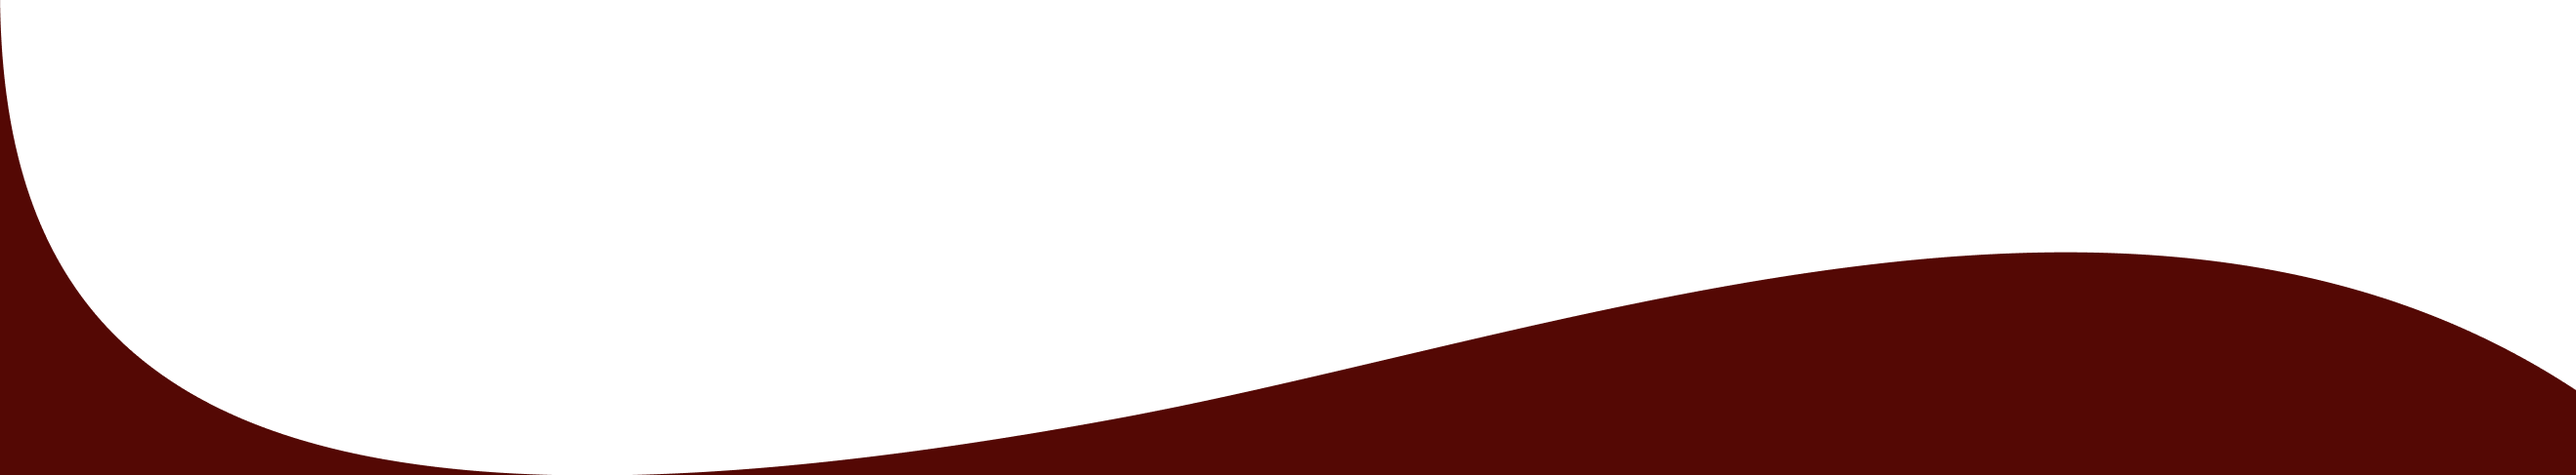
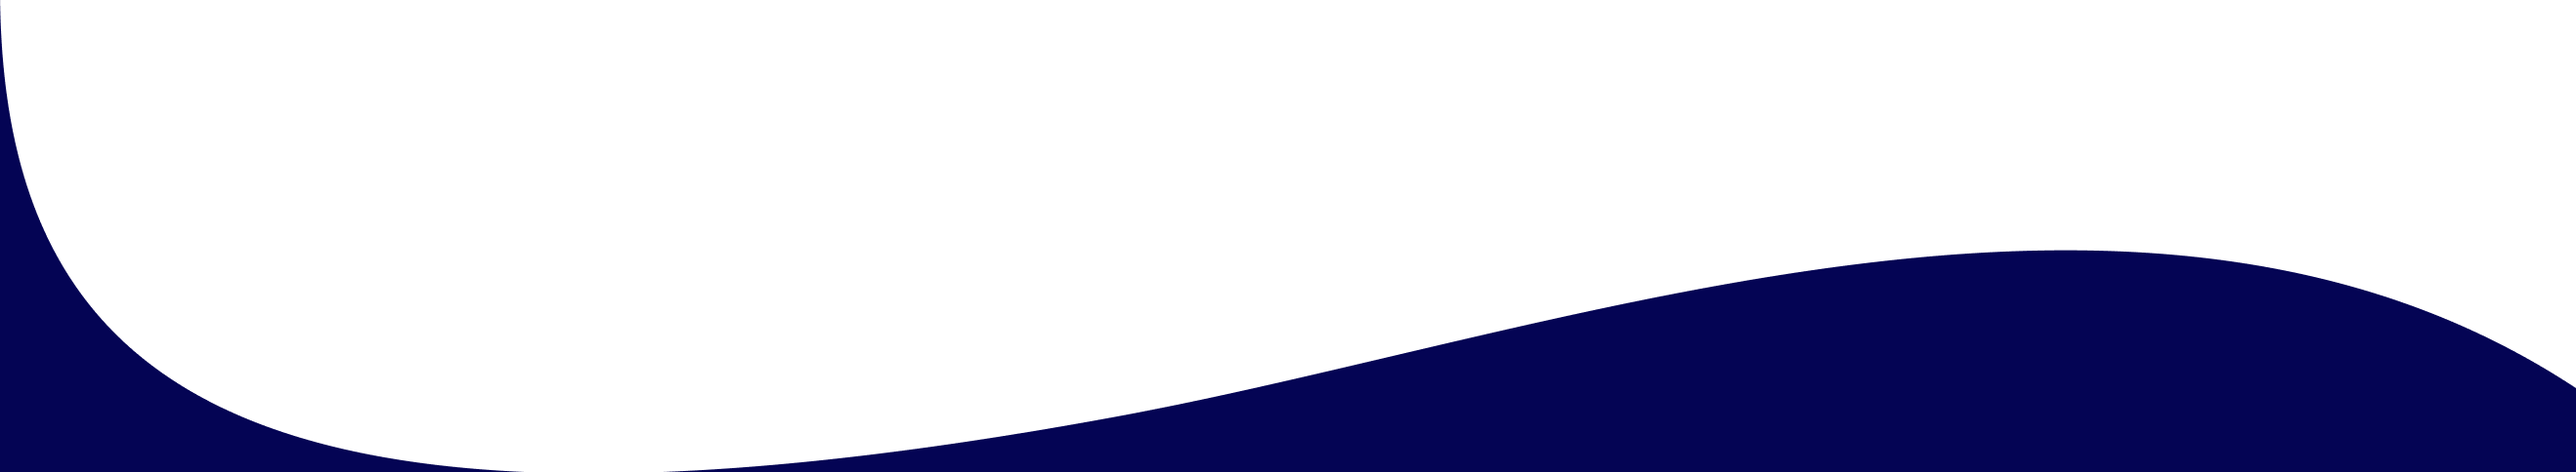
alterando as cores e começando o container3

Changed region(s): [[0.2489, 0.5269, 1.0, 1.0], [0.0, 0.2169, 0.2178, 1.0]]

diff --git a/Site-Institucional/public/style.css b/Site-Institucional/public/style.css
@@ -2,11 +2,12 @@
 body {
     margin: 0;
     padding: 0;
+    scroll-behavior: smooth;
 }
 .main{
-    background-color: #F5CCB0;
+    background-color: white;
     width: 100%;
-    height: 200vh;
+    height: auto;
     display: flex;
     justify-content: center;
 }
@@ -16,6 +17,7 @@ body {
     display: flex;
     flex-direction: column;
     align-items: center;
+    background-color: white;
 }
 .header{
     width: 100%;
@@ -30,26 +32,39 @@ body {
     align-items: center;
 }
 .logo{
-    height: 100%;
-    margin-top: 5%;
+    height: 50%;
 }
 .login-button{
-    width:15%;
+    width: 20%;
     color: white;
-    height: 40%;
-    background-color: #d74e47;
+    height: 35%;
+    background-color: #4671C7;
     margin-right: 5%;
     border: none;
     border-radius: 10px;
     font-size: 1.2vmax;
-    font-weight: 300;
+    font-weight: 700;
+    filter: drop-shadow(0px 4px 4px rgba(0, 0, 0, 0.25));
 }
 .text-box{
     width: 50%;
-    background-color: #F5CCB0;   
+    background-color: white;   
 }
 .subtittle{
-    color: #81171B;
+    color: #040454;
+    font-weight: 800;
+}
+.button-contato{
+    width: 35%;
+    height: 8vh;
+    color: white;
+    font-size: 1.2vmax;
+    border: 2px solid #4671C7;
+    border-radius: 10px;
+    background: #4671C7;
+    box-shadow: 0px 4px 4px 0px rgba(0, 0, 0, 0.25);
+    font-weight: 700;
+    
 }
 .content1{
     width: 100%;
@@ -62,6 +77,7 @@ body {
     font-family: 'MADE Tommy Soft';
     width: 45%;
     height: 55%;
+    line-height: 4vh;
     display: flex;
     flex-direction: column;
     justify-content: center;
@@ -71,17 +87,18 @@ body {
     flex-direction: column;
     margin-bottom: 5%;
 }
-.egg{
-    width: 35%;
+.tecnico{
+    width: 50%;
 }
 .tittle{
-    color: #540804;
-    font-size: 2.6vmax;
+    color: black;
+    font-size: 2.5vmax;
     font-weight: 600;
+    line-height: 6vh;
 }
 .home-text{
-    color: #540804;
-    font-size: 1.2vmax;
+    color: #040454;
+    font-size: 1.3vmax;
     font-weight: 300;
 }
 .onda{
@@ -89,14 +106,14 @@ body {
 }
 .content2{
     width: 99vw;
-    height: 100%;
-    background-color: #540804;
+    height: 100vh;
+    background-color: #040454;
     display: flex;
     justify-content: center;
+    flex-direction: column;
 }
 .retangulo{
-    width: 25%;
-    height: 60vh;
+    width: 30%;
 }
 .container2{
     width: 90%;
@@ -104,16 +121,30 @@ body {
     flex-direction: row;
     align-items: center;
     justify-content: space-between;
+    line-height: 10vh;
+    height: 400vh;
 }
 .text-box2{
     display: flex;
     flex-direction: column;
-    height: 50%;
-    margin-right: 8%;
-    width: 65%;
-    color: #FFF0DD;
+    height: 70%;
+    margin-right: 5%;
+    width: 50%;
+    color: white;
     font-family: 'MADE Tommy Soft';
+    font-size: 1vmax;
+    font-weight: 400;
+    line-height: 4vh;
 }
 .tittle-2{
     font-size: 2vmax;
+    margin-bottom: 4%;
+    font-weight: 700;
+}
+.content3{
+    background-color: aliceblue;
+    width: 100%;
+    display: flex;
+    height: 2200vh;
+    border-radius: 10px;
 }

diff --git a/Site-Institucional/public/index.html b/Site-Institucional/public/index.html
@@ -18,32 +18,31 @@
         <div class="content1">
           <div class="content-text">
             <div class="content-tittle">
-            <span class="subtittle">UM FATO!</span>
             <span class="tittle">A FALTA DE MONITORAMENTO DE HARDWARE NOS RESTAURANTES</span>
             </div>
             <span class="home-text">
-              Pode levar a atrasos nos pedidos devido a equipamentos
-              defeituosos, resultando em clientes insatisfeitos e impacto na
-              reputação do restaurante. Além disso, pode causar desperdício de
-              recursos e oportunidades perdidas de negócios. Garantir o
-              monitoramento adequado do hardware é essencial para manter a
-              qualidade e a reputação do restaurante.
+              Pode levar a atrasos nos pedidos devido a equipamentos defeituosos, resultando em clientes insatisfeitos e impacto na reputação.
             </span>
+            <span class="subtittle">FICOU INTERESSADO?</span>
+            <button class="button-contato">ENTRE EM CONTATO</button>
           </div>
-          <img src="assets/OVO.png" class="egg">
+          <img src="assets/tecnico.png" class="tecnico">
         </div>
         <img src="assets/ONDA.png" class="onda">
+        
         <div class="content2">
           <div class="container2">
-            <img src="assets/retangulo.png" class="retangulo">
+            <img src="assets/logo 1.png" class="retangulo">
 
             <div class="text-box2">
-              <span class="tittle-2">SOBRE PROJETO</span>
+              <span class="tittle-2">CHEFWARE: O PROJETO</span>
               <span class="text-2">A solução de monitoramento de hardware para restaurantes "Chefware" foi criada para resolver problemas recorrentes de funcionamento de equipamentos como fornos, geladeiras e sistemas de pedidos. Este sistema inovador oferece visibilidade em tempo real do status dos dispositivos, permitindo que os restaurantes monitorem continuamente o desempenho dos equipamentos e evitem possíveis falhas ao longo do tempo. Além disso, o Chefware otimiza a eficiência operacional, evitando atrasos e desperdícios de recursos. Além disso, o Chefware otimiza a eficiência operacional do restaurante, ajudando a prevenir atrasos e desperdícios de recursos. Isso permite que os proprietários de restaurantes se concentrem nas atividades que são mais importantes para o negócio, como o atendimento ao cliente e a criação de novas receitas. Com o Chefware, os restaurantes podem proporcionar experiências excepcionais aos clientes, mesmo em momentos de alta demanda, destacando-se pela excelência e eficiência.</span>
             </div>
 
           </div>
+          <div class="content3">a</div>
         </div>
+        
       </div>
     </div>
   </body>
